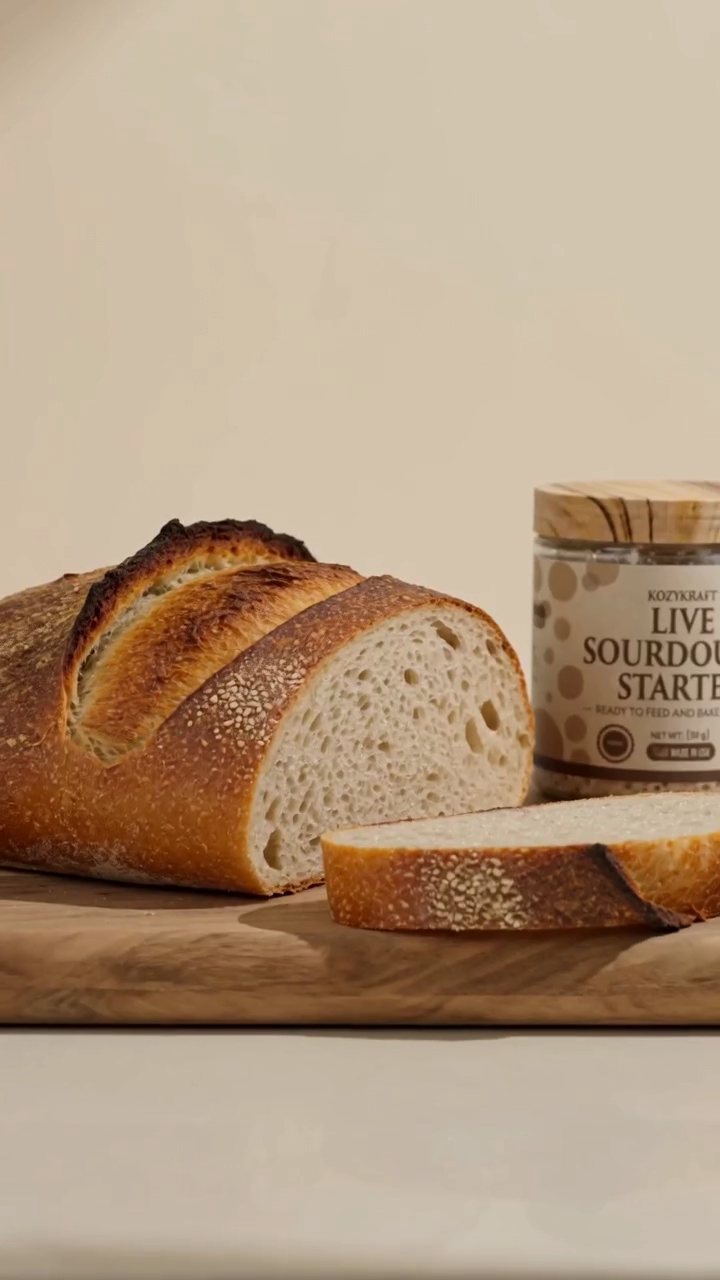
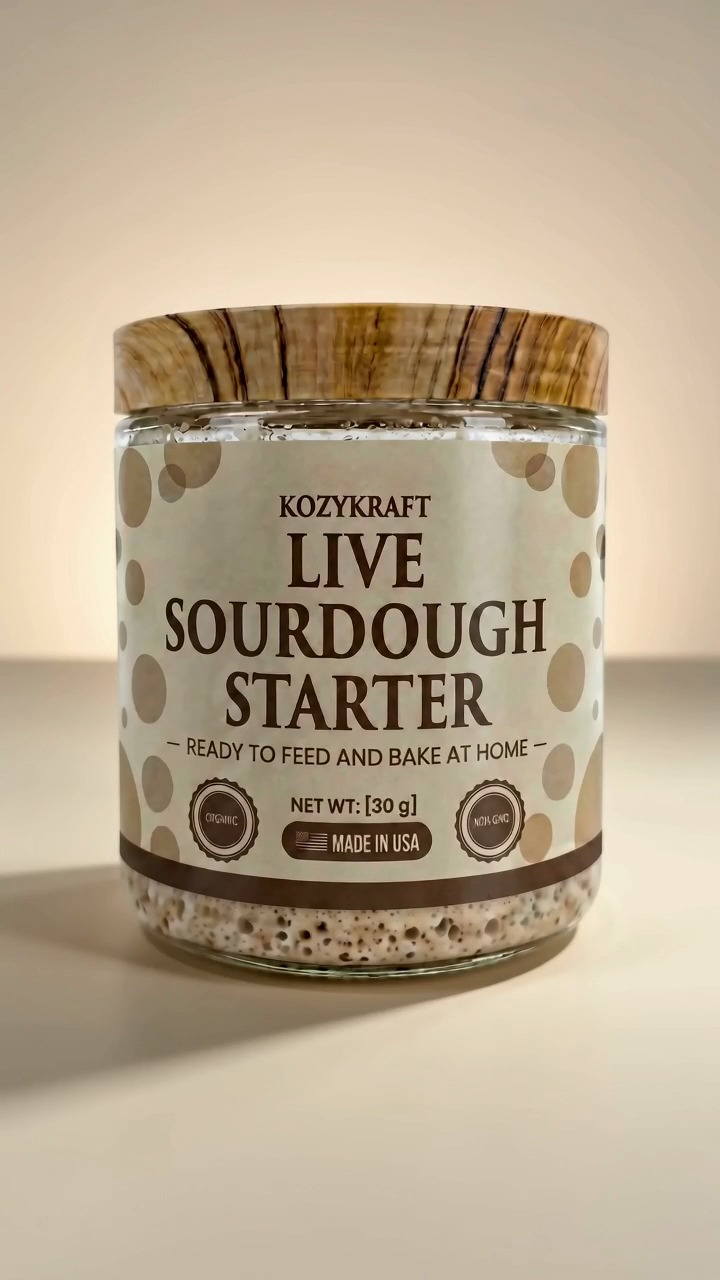
fix: tighter live jar image, email update, remove plastic claim, fix first-loaf row

diff --git a/index.html b/index.html
@@ -501,7 +501,7 @@ src="https://www.facebook.com/tr?id=YOUR_PIXEL_ID_HERE&ev=PageView&noscript=1"/>
     </video>
   </div>
 
-  <h1>10 Reasons This Hand-Crafted Ohio Sourdough Starter Is Making Thousands Quit Store-Bought Bread For Good</h1>
+  <h1>9 Reasons This Hand-Crafted Ohio Sourdough Starter Is Making Thousands Quit Store-Bought Bread For Good</h1>
 
   <div class="byline">
     <img class="avatar" src="images/author-victoria.png" alt="Margaret Reilly">
@@ -648,23 +648,13 @@ src="https://www.facebook.com/tr?id=YOUR_PIXEL_ID_HERE&ev=PageView&noscript=1"/>
 
   <div class="reason">
     <div class="reason-img">
-      <img src="images/r08-plastic-vs-paper.png" alt="Plastic bread bags vs a small recyclable paper packet">
-    </div>
-    <div class="reason-body">
-      <h2>08. Plastic-conscious packaging</h2>
-      <p>Big bread brands ship in plastic bags coated in petroleum-based wax that ends up in landfills and waterways. Our dehydrated starter ships in a small <strong>recyclable paper packet</strong> — about the size of a teabag. No plastic in the landfill, no microplastics in your food.</p>
-    </div>
-  </div>
-
-  <div class="reason">
-    <div class="reason-img">
       <video autoplay loop muted playsinline preload="metadata" poster="images/r09-ohio-kitchen.png">
         <source src="loops/loop-r09-ohio-kitchen.mp4" type="video/mp4">
         <img src="images/r09-ohio-kitchen.png" alt="Small homestead kitchen in rural Ohio with jars of sourdough starter">
       </video>
     </div>
     <div class="reason-body">
-      <h2>09. Support a small American family business — not a corporation</h2>
+      <h2>08. Support a small American family business — not a corporation</h2>
       <p>Every order goes directly to a small team in Ohio. No warehouse, no venture capital, no overseas manufacturer. When you buy a KozyKraft starter, you're keeping a <strong>thousands-of-years-old craft alive</strong> and putting food on the table for a real American family. You can't say the same about the bread aisle at Walmart.</p>
     </div>
   </div>
@@ -674,7 +664,7 @@ src="https://www.facebook.com/tr?id=YOUR_PIXEL_ID_HERE&ev=PageView&noscript=1"/>
       <img src="images/r10-loaf-collage.png" alt="Collage of customer home-baked sourdough loaves">
     </div>
     <div class="reason-body">
-      <h2>10. 5-Star Reviews + "It Works" Guarantee</h2>
+      <h2>09. 5-Star Reviews + "It Works" Guarantee</h2>
       <p>★ ★ ★ ★ ★</p>
       <p>If your starter doesn't activate within <strong>30 days</strong> of feeding, we'll ship you a <strong>free replacement</strong> — no questions asked. We've sent thousands of starters to homes across the country and our customers keep telling us the same thing: <em>"I'll never buy bread again."</em> That's the goal.</p>
     </div>
@@ -710,8 +700,8 @@ src="https://www.facebook.com/tr?id=YOUR_PIXEL_ID_HERE&ev=PageView&noscript=1"/>
           <td><span class="no">✗ Dehydrated only</span></td>
         </tr>
         <tr>
-          <td class="row-label">First loaf in 5–7 days</td>
-          <td class="kk-col"><span class="yes">✓</span></td>
+          <td class="row-label">Time to first loaf</td>
+          <td class="kk-col"><span class="yes">Live: 24–48 hrs<br>Dehydrated: 5–7 days</span></td>
           <td>14+ days typical</td>
           <td>10–14 days</td>
           <td>14+ days typical</td>
@@ -729,13 +719,6 @@ src="https://www.facebook.com/tr?id=YOUR_PIXEL_ID_HERE&ev=PageView&noscript=1"/>
           <td>Limited returns</td>
           <td>Limited returns</td>
           <td>Standard return only</td>
-        </tr>
-        <tr>
-          <td class="row-label">Plastic-free packaging</td>
-          <td class="kk-col"><span class="yes">✓ Paper packet</span></td>
-          <td>Plastic pouch</td>
-          <td>Plastic pouch</td>
-          <td>Plastic pouch</td>
         </tr>
         <tr>
           <td class="row-label">Starting price</td>

diff --git a/terms.html b/terms.html
@@ -202,7 +202,7 @@
   <p>We may revise these Terms at any time. Continued use of the site after changes constitutes acceptance of the revised Terms.</p>
 
   <h2>Contact</h2>
-  <p>Questions about these Terms: <a href="mailto:legacystrategies1@gmail.com">legacystrategies1@gmail.com</a></p>
+  <p>Questions about these Terms: <a href="mailto:harborws1@gmail.com">harborws1@gmail.com</a></p>
 
   <div class="footer">
     <p>The Loaf Report · A publication featuring sponsored editorial content</p>

diff --git a/privacy.html b/privacy.html
@@ -210,7 +210,7 @@
   <p>We may update this Privacy Policy from time to time. The date at the top reflects the most recent revision.</p>
 
   <h2>Contact</h2>
-  <p>Questions about this policy: <a href="mailto:legacystrategies1@gmail.com">legacystrategies1@gmail.com</a></p>
+  <p>Questions about this policy: <a href="mailto:harborws1@gmail.com">harborws1@gmail.com</a></p>
 
   <div class="footer">
     <p>The Loaf Report · A publication featuring sponsored editorial content</p>

diff --git a/contact.html b/contact.html
@@ -179,7 +179,7 @@
 
   <div class="contact-card">
     <p class="label">Email</p>
-    <p class="value"><a href="mailto:legacystrategies1@gmail.com">legacystrategies1@gmail.com</a></p>
+    <p class="value"><a href="mailto:harborws1@gmail.com">harborws1@gmail.com</a></p>
   </div>
   <p class="response-note">We respond to inquiries within 1–2 business days.</p>
 
